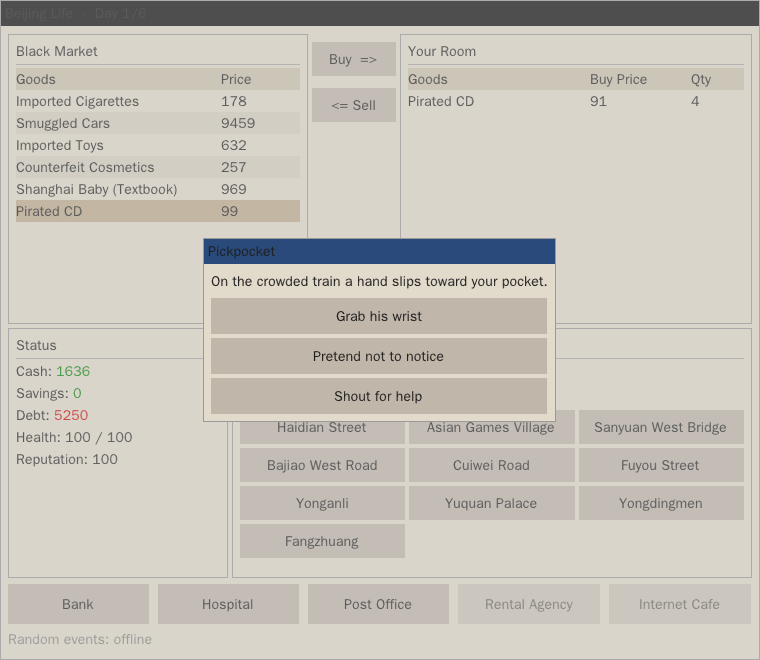
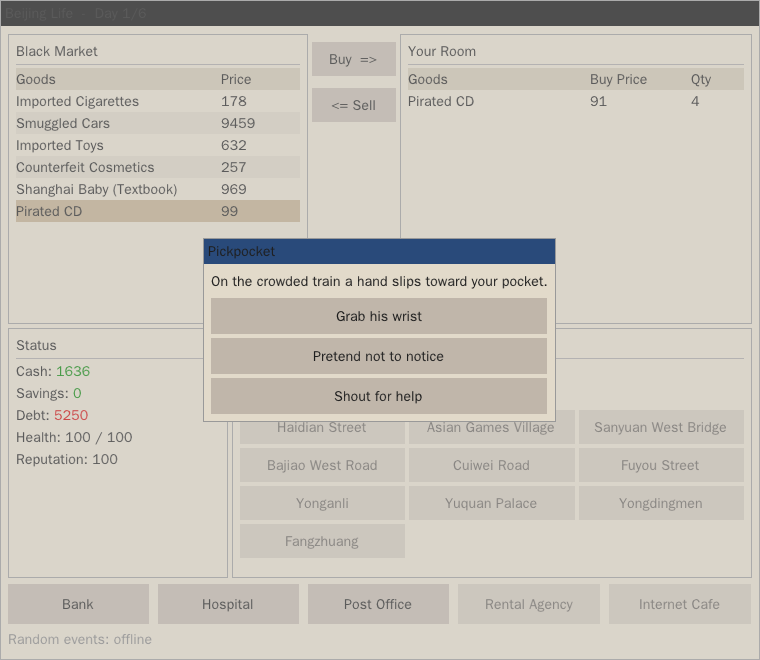
chore: bound demo resources and refresh verified portfolio assets
Cap Docker build and capture memory, remove generated Python caches, replay both language tours and the demo GIF, and record clean-build, test, install and GUI verification. Update the README with checked behavior and resource-bounded commands.

diff --git a/README.md b/README.md
@@ -4,7 +4,7 @@
 
 **A C++17 remake of the classic trading / life-sim game: buy low, sell high on the Beijing black market and pay off the village chief within 40 days. Bilingual UI (English / 简体中文), SDL2 + OpenGL + Dear ImGui, optional LLM-written random events that fall back to a built-in event table, so it is always playable offline.**
 
-> 《北京浮生记》的 C++17 复刻版：用 40 天在北京黑市倒买倒卖、还清村长的高利贷。支持中文 / English 界面；随机事件可由大模型生成，没有 API key 时自动使用内置事件，完全可以离线游玩。
+> 《北京浮生记》的 C++17 复刻版：用 40 天在北京黑市倒买倒卖、还清村长的高利贷。支持中文 / English 界面；随机事件可由大模型生成，没有配置服务时自动使用内置事件，完全可以离线游玩。
 
 ![Gameplay (Chinese UI, 6-day game)](docs/demo.gif)
 
@@ -64,7 +64,7 @@ Beijing_Fushengji [--lang zh|en] [--seed N] [--offline] [--days N] [--font PATH]
 | `--lang zh\|en` | skip the language selector |
 | `--seed N` | seed every random generator: the same seed gives the same prices, news and offline events |
 | `--offline` | never contact an LLM |
-| `--days N` | game length (default 40) |
+| `--days N` | game length, 1–40 days (default 40); shorter runs are useful for demos |
 | `--font PATH` | CJK font file (also `FUSHENGJI_FONT`); by default `Font/wqy-zenhei.ttc` next to the executable |
 
 ## AI-generated events
@@ -87,7 +87,8 @@ export FUSHENGJI_AI_BASE_URL=http://localhost:11434/v1 FUSHENGJI_AI_MODEL=llama3
 ./build/Beijing_Fushengji
 ```
 
-The status line at the bottom of the window shows whether events come from the AI or from the offline table.
+The status line shows the configured event source. An AI request can still fall back to the offline table; stderr
+records that fallback.
 
 ```mermaid
 sequenceDiagram
@@ -115,14 +116,17 @@ sequenceDiagram
 
 How it behaves:
 
-* One request per event, one at a time, issued from a **copy** of the game state, so the UI never blocks and the worker
-  never touches live player data.
+* One request per event, one at a time, issued from a **copy** of the game state. Rendering and window controls stay
+  responsive, while travel waits for the event and your choice; advancing quickly cannot skip a pending event.
+  The worker never touches live player data.
 * The model is asked for a single JSON object (`title`, `description`, three `options` with `text`, `cash`, `health`,
   `reputation`) in the language the player selected. The reply is parsed leniently (markdown fences, chatter around the
   JSON, `<think>` blocks and numbers written as strings are tolerated) and **every number is clamped**
-  (cash +-1000, health +-25, reputation +-40), so a model can neither hand out a fortune nor kill the player outright.
+  (cash +-1000, health +-25, reputation +-40), including numbers outside the integer range. These caps limit each
+  event's impact; a health penalty can still end a run when the player is already weak.
 * Anything that goes wrong (no network, 401/429/5xx, timeout, unusable reply) is logged to stderr and replaced by an
-  offline event, so a flaky endpoint never interrupts the game.
+  offline event, so a flaky endpoint never interrupts the game. Provider error text is omitted from logs because
+  some servers echo rejected credentials in it.
 * What is sent: the day, cash, health, reputation and the character's background plus the last eight event decisions.
   The API key is only ever sent in the `Authorization` header of that request.
 * Requests are aborted promptly when the window is closed.
@@ -189,14 +193,20 @@ ctest --test-dir build --output-on-failure     # unit tests + mock-server integr
 `docker/Dockerfile` contains the whole toolchain plus Xvfb, so you can build, test and even run the game headlessly:
 
 ```bash
-docker build -t fushengji-dev -f docker/Dockerfile docker
-docker run --rm --user "$(id -u):$(id -g)" -e HOME=/tmp -v "$PWD":/src -w /src fushengji-dev bash -lc \
+DOCKER_BUILDKIT=0 docker build --memory=4g --memory-swap=4g -t pu-beijing-dev -f docker/Dockerfile docker
+docker run --rm --name pu-beijing-build --memory=4g --memory-swap=4g --cpus=4 \
+  --user "$(id -u):$(id -g)" -e HOME=/tmp -v "$PWD":/src -w /src pu-beijing-dev bash -lc \
   'cmake -S . -B build -G Ninja && cmake --build build -j4 && ctest --test-dir build --output-on-failure'
 
-# run the game on a virtual display for 10 seconds (this is what the CI smoke test does)
-docker run --rm --user "$(id -u):$(id -g)" -e HOME=/tmp -e LIBGL_ALWAYS_SOFTWARE=1 -v "$PWD":/src -w /src fushengji-dev \
-  xvfb-run -a timeout 10 build/Beijing_Fushengji --lang zh --offline
+# run the game on a virtual display for 10 seconds (CI also drives the window)
+docker run --rm --name pu-beijing-smoke --memory=1g --memory-swap=1g --cpus=2 \
+  --user "$(id -u):$(id -g)" -e HOME=/tmp -e LIBGL_ALWAYS_SOFTWARE=1 -v "$PWD":/src -w /src pu-beijing-dev \
+  xvfb-run -a timeout --kill-after=3s 10 build/Beijing_Fushengji --lang zh --offline
 ```
+
+The timed smoke run normally exits with code 124. The classic Docker builder is selected so its memory limits also
+apply during dependency installation; runtime containers have separate limits. On a shared host, serialize builds
+and leave memory available for other services.
 
 ### Windows
 
@@ -205,7 +215,9 @@ CI builds the project with MSVC on `windows-latest` (SDL2 is fetched and built b
 ```powershell
 vcpkg install curl:x64-windows
 cmake -S . -B build -DCMAKE_TOOLCHAIN_FILE="$env:VCPKG_INSTALLATION_ROOT/scripts/buildsystems/vcpkg.cmake"
-cmake --build build --config Release
+cmake --build build --config Release --parallel 4
+ctest --test-dir build -C Release --output-on-failure
+.\build\Release\Beijing_Fushengji.exe --lang zh --offline
 ```
 
 Without vcpkg add `-DFSJ_ENABLE_LLM=OFF` for an offline-only build. The Visual Studio project files of the original
@@ -230,7 +242,7 @@ it on a real Windows desktop yet).
 ctest --test-dir build --output-on-failure
 ```
 
-78 GoogleTest cases in `tests/` run against `fsj_core` without a window, plus one CTest entry that runs 10 more cases
+79 GoogleTest cases in `tests/` run against `fsj_core` without a window, plus one CTest entry that runs 11 more cases
 for the libcurl client against a local mock OpenAI server (`tests/mock_openai_server.py`: auth header, API errors,
 HTML gateway errors, timeout, cancellation, fallback). They cover, among others:
 
@@ -240,6 +252,13 @@ HTML gateway errors, timeout, cancellation, fallback). They cover, among others:
 * game flow: calendar, death, ending settlement, "same seed = same game";
 * the LLM layer: prompt building, lenient parsing, clamping, request body, response and error parsing, environment
   configuration, and fallback to offline events.
+
+CTest also checks CLI argument validation without opening a window. Linux CI runs
+`python3 tests/test_gui.py build/Beijing_Fushengji build/gui-test` under Xvfb/Mesa to check Chinese rendering,
+clean shutdown, and travel locking during a deliberately delayed local AI response. Its screenshots are uploaded
+as a CI artifact. No real API credentials or paid requests are needed for any test.
+
+See the [verification record](docs/verification.md) for the clean-build commands, results, and limits.
 
 ## Project layout
 
@@ -280,14 +299,14 @@ documentation, these bugs were found and fixed (the ones that can be tested with
 ## Design notes and trade-offs
 
 * **Core / UI split.** The rules are plain C++ with injectable seeds and a `ChatBackend` interface, which is what makes
-  the 88 tests possible. The UI stays a thin immediate-mode layer.
+  the 90 GoogleTest cases possible. The UI stays a thin immediate-mode layer.
 * **Own RNG helpers.** `std::mt19937` is fully specified by the standard but `std::uniform_*_distribution` is not, so
   `Rng` derives doubles and ranges by hand; a seed is meant to reproduce the same game on GCC, Clang and MSVC (checked
   on GCC only).
 * **Fail soft, not hard.** The LLM is an enhancement. Every failure mode degrades to the offline table instead of an
   error dialog, and model output is treated as untrusted input (parsed, validated, clamped).
 * **One request, JSON reply.** The original made two chained requests with `|`/`#` delimited text. A single JSON
-  request halves latency and cost and is much easier to validate.
+  request avoids a second network round trip and is easier to validate.
 * **Vendored ImGui, fetched everything else.** ImGui is small once trimmed and is built together with the game;
   heavier dependencies come from the system package manager or `FetchContent`.
 * **Balance is unchanged** (5 % debt, 4 % savings, 1750 per health point, 100 slots); only the inconsistencies were fixed.

diff --git a/docs/verification.md b/docs/verification.md
@@ -1,0 +1,62 @@
+# Verification record
+
+Verified on 2026-10-19 from a clean tracked-file snapshot using the Ubuntu 24.04 image in
+`docker/Dockerfile`, GCC 13.3 and Mesa software OpenGL. No previous build tree was copied.
+
+Local heavy work was serialized with the owner's global lock and a systemd scope capped at 6 GiB with no swap.
+Each build/demo container was separately limited to 4 GiB, no swap, and four CPUs; builds used at most four jobs.
+Available host memory was checked against the required 8 GiB threshold before starting.
+
+## Commands and results
+
+The following commands ran inside the Docker image, from the clean source tree:
+
+```bash
+cmake -S . -B build -G Ninja -DFSJ_WARNINGS_AS_ERRORS=ON
+cmake --build build -j4
+ctest --test-dir build --output-on-failure
+python3 tests/test_gui.py build/Beijing_Fushengji build/gui-test
+
+cmake -S . -B build-headless -G Ninja -DFSJ_BUILD_APP=OFF -DFSJ_ENABLE_LLM=OFF \
+  -DFSJ_FETCH_DEPENDENCIES=OFF -DFSJ_WARNINGS_AS_ERRORS=ON
+cmake --build build-headless -j4
+ctest --test-dir build-headless --output-on-failure
+```
+
+| Check | Result |
+|---|---|
+| Full app, warnings treated as errors | Build passed |
+| Full CTest suite | 81/81 entries passed: 79 core GoogleTest cases, 11 HTTP cases in one entry, and CLI validation |
+| Real-window GUI regression | Chinese screenshot and clean exit; delayed local AI response blocks travel; travel resumes after the choice |
+| Headless build without libcurl | Build passed; 79/79 tests passed |
+
+Installation was checked with `cmake --install build --prefix /src/build/install`. From `/tmp`, outside the source
+directory, the following launched the installed Chinese UI and reached the expected timeout exit code 124:
+
+```bash
+LIBGL_ALWAYS_SOFTWARE=1 xvfb-run -a timeout --kill-after=3s 10 \
+  /src/build/install/bin/Beijing_Fushengji --lang zh --offline
+```
+
+## Regression evidence
+
+Before the fixes, the new tests reproduced credential echoes in both HTTP 401 and HTTP 200 error envelopes,
+incorrect signs after converting enormous JSON numbers, acceptance of malformed/out-of-range CLI values, and
+advancing from day 1 to day 2 while an AI event was pending. The same tests passed after the fixes.
+
+The GUI test uses the real SDL/OpenGL/ImGui application and a deliberately delayed local HTTP server. Its images
+are uploaded by Linux CI. Chinese glyphs were also visually inspected in the locally captured screenshot.
+
+## Demo assets
+
+`IMAGE=pu-beijing-takeover-dev DOCKER_NAME=pu-beijing-demo-verify scripts/capture_demo.sh` completed in the clean
+snapshot, using the same Dockerfile-built toolchain. It replayed the language selector and seeded Chinese/English
+tours under Xvfb, including trading, town services, random events and the ending. The resulting eight PNGs in
+`docs/screenshots/` and `docs/demo.gif` were copied back into the repository. Each PNG is below 81 KB; the GIF is
+about 615 KB. The Chinese event and English ending captures were visually inspected.
+
+## Scope
+
+No paid or live-provider API calls were used. HTTP behavior is exercised against a local mock server. Windows is
+built and tested by GitHub Actions; interactive Windows desktop behavior and macOS remain unverified. See the
+README's CI badge for the current Linux and Windows workflow status.
